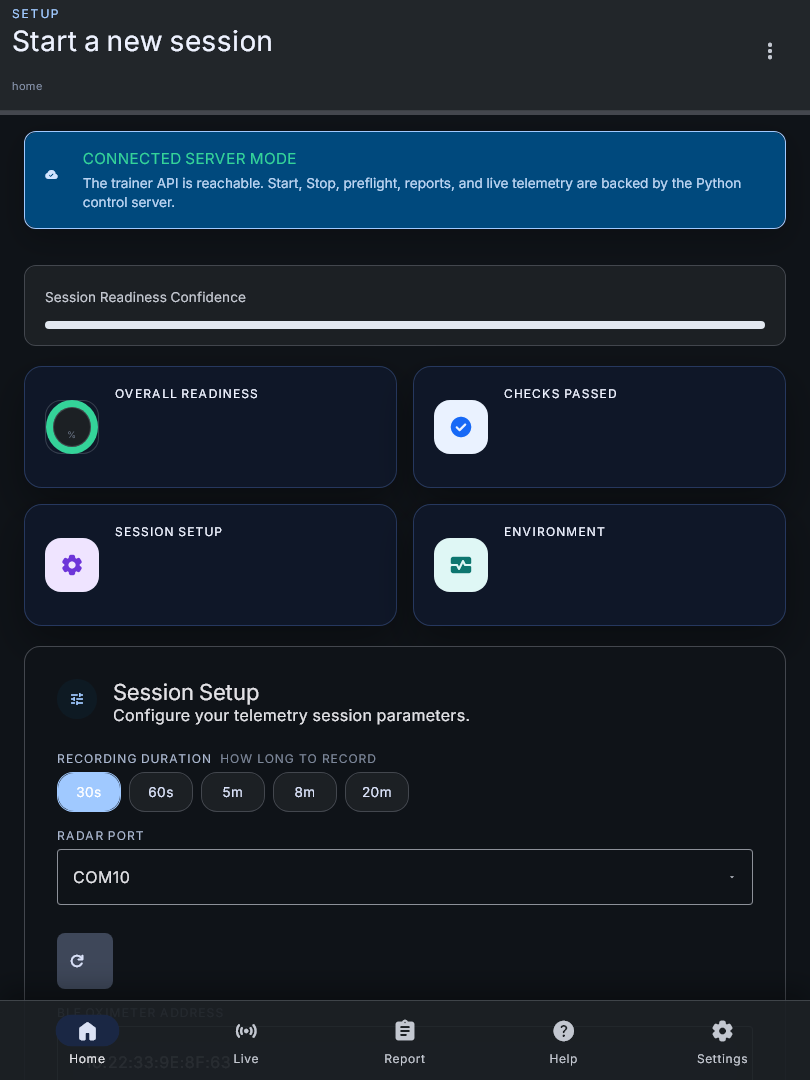
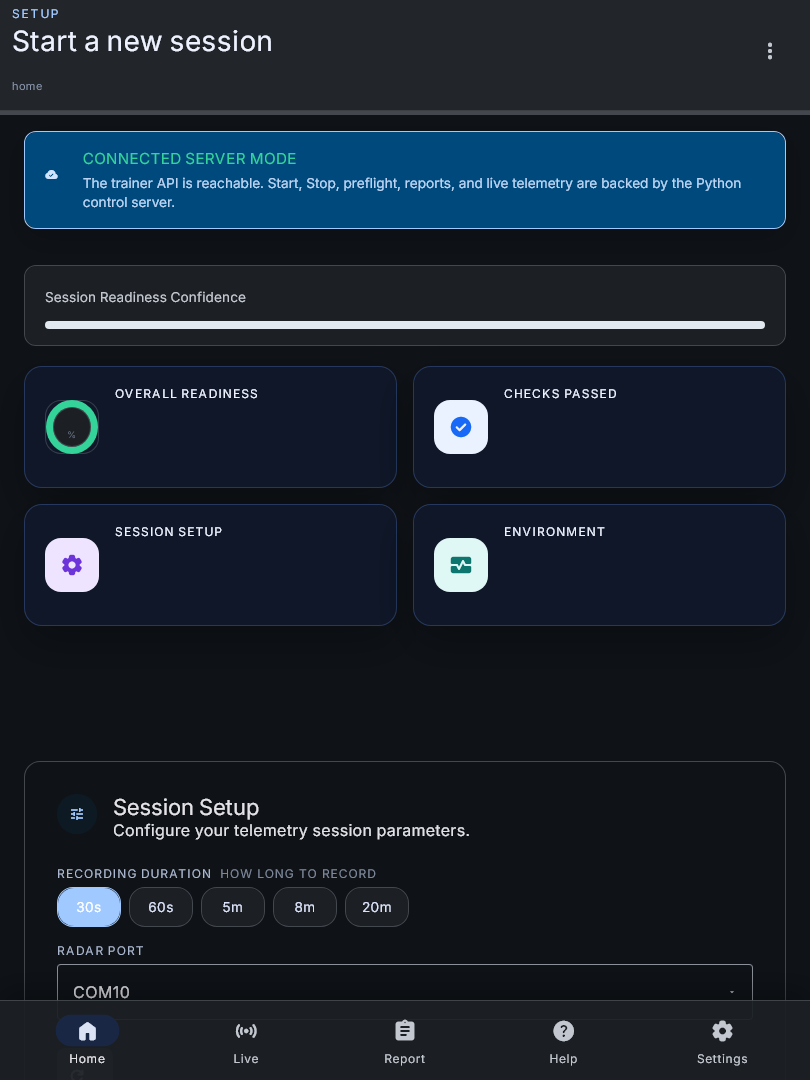
Refresh iPad home visual baselines

Changed region(s): [[0.0617, 0.7028, 0.5864, 0.9472], [0.1235, 0.6111, 0.5864, 0.6722]]

diff --git a/HANDOFF.md b/HANDOFF.md
@@ -5,6 +5,11 @@
 > file is treated as a regression. Keep entries terse — one line per change.
 > The newest entry goes at the **top** of the log, dated.
 
+### 2026-06-13 — PR54 iPad Home Baseline Refresh
+
+- **Visual CI follow-up**: refreshed the committed Windows iPad Home baselines for dark and high-contrast themes after the first-run visual/legal-link bundle changed rendered Home pixels in CI.
+- **Verification**: `RVT_TEST_PORT=8999 npx playwright test tests/visual/rvt-v12.spec.ts --project=ipad --grep "home" --update-snapshots --reporter=line` 4/4.
+
 ### 2026-06-13 — PR54 iPad HC Home Baseline Follow-up
 
 - **Visual CI follow-up**: refreshed the committed Windows iPad high-contrast Home baseline after the first-run visual/legal-link push changed rendered theme pixels in CI.